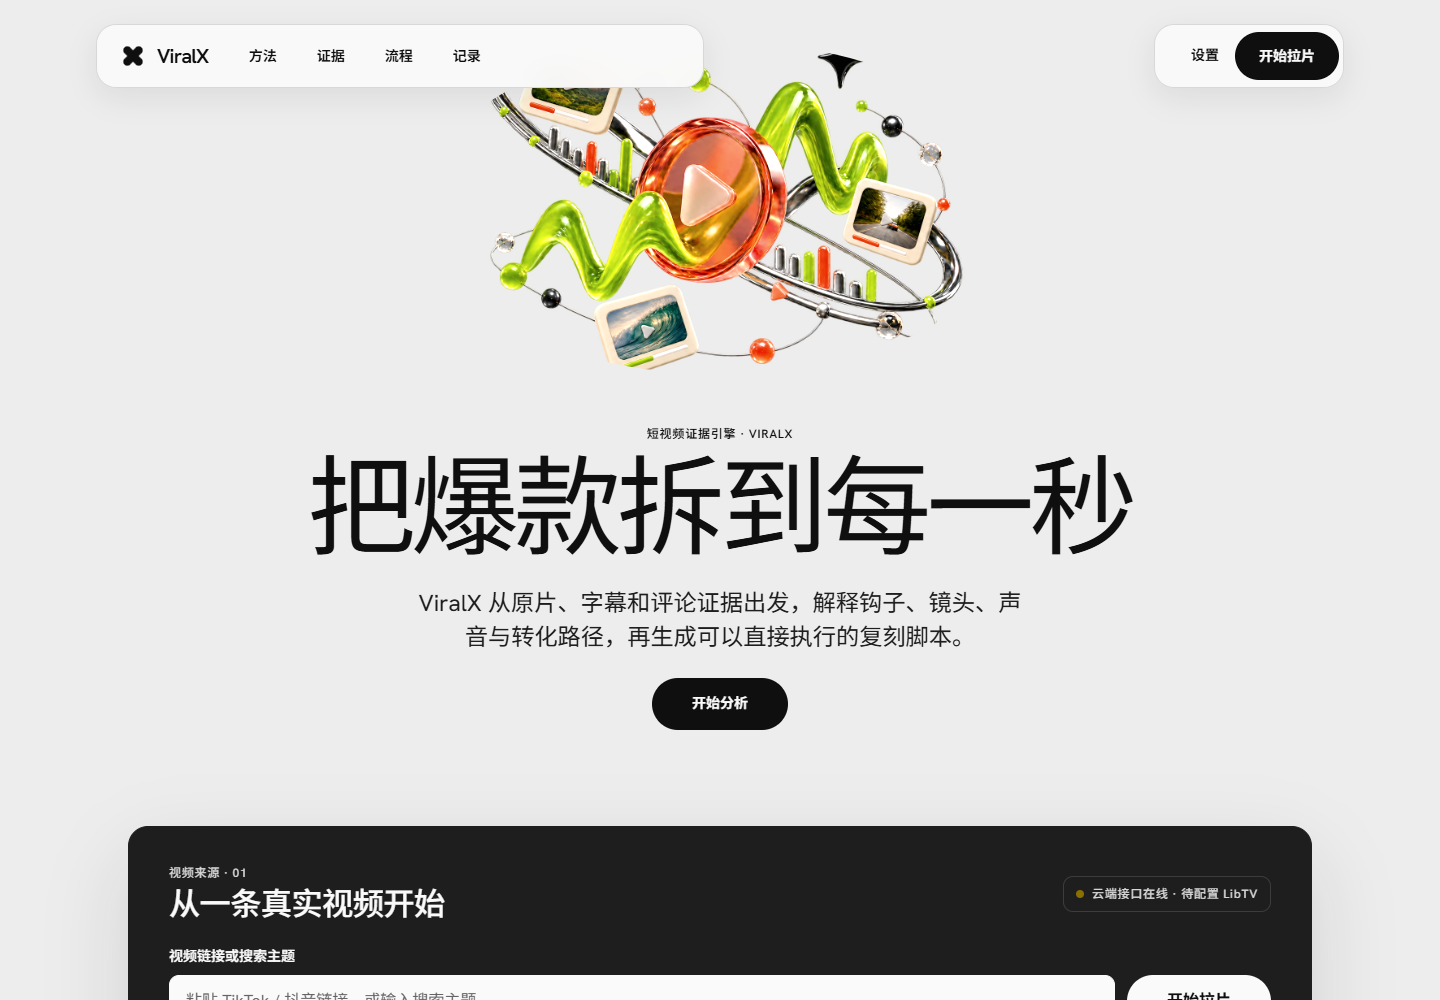
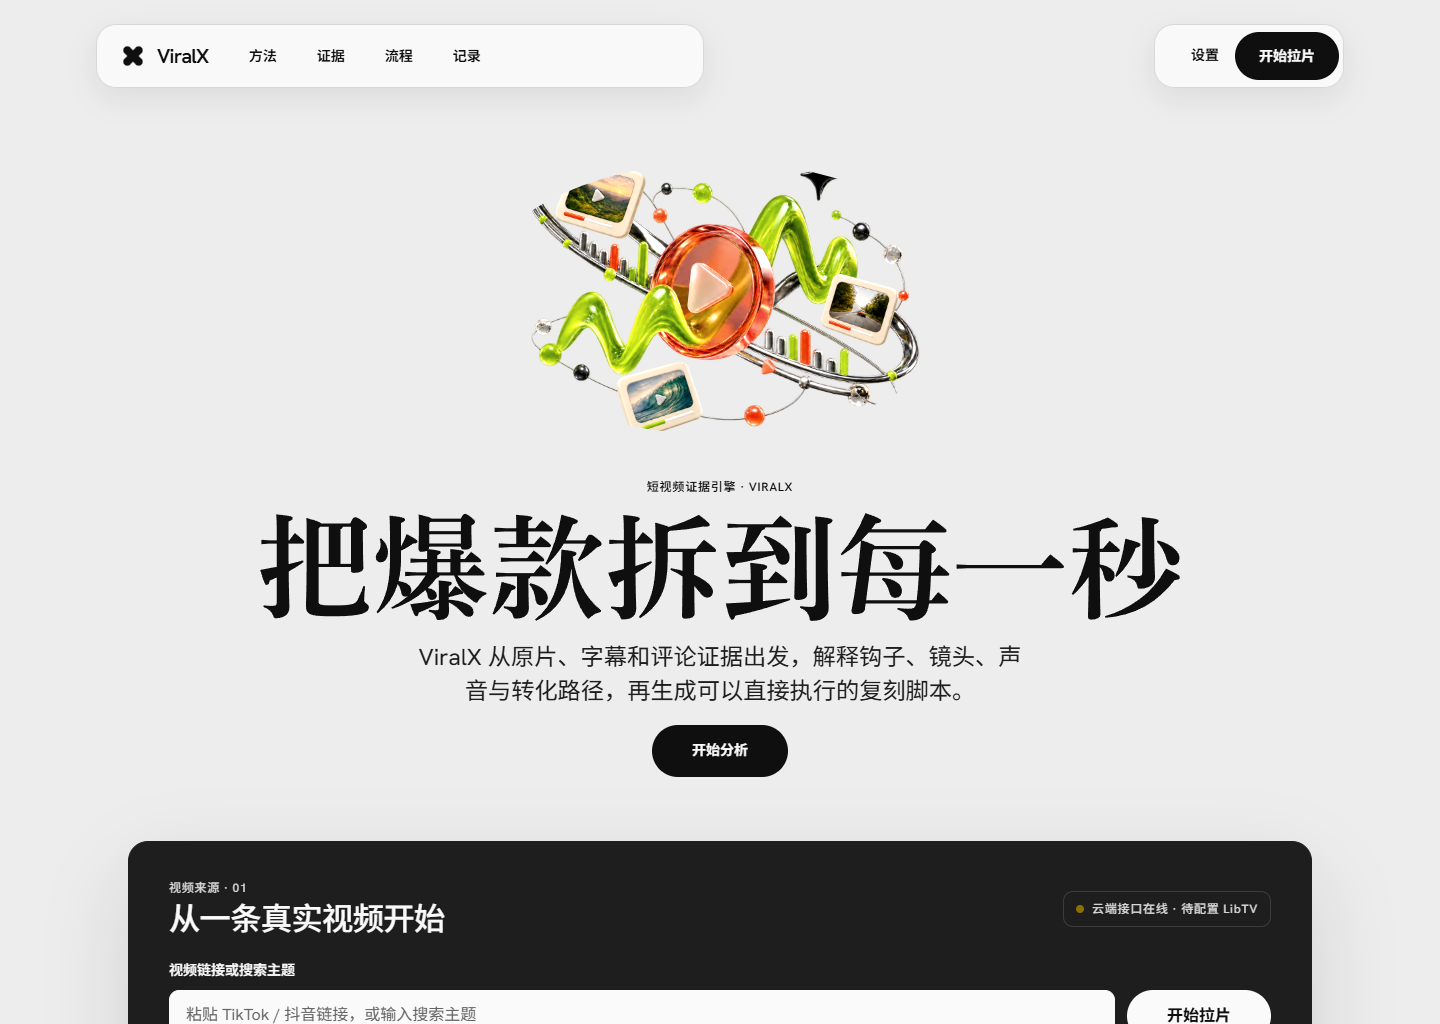
docs: highlight web rebuild and refresh screenshots

diff --git a/README.md b/README.md
@@ -37,6 +37,20 @@ ViralX 是一个完整的网页应用。它从真实的 TikTok / 抖音视频出
 - 本地开发通过 Flask 提供同一套浏览器页面和 API。
 - 产品只通过浏览器交付，不提供独立桌面应用。
 
+## 2026 Web 重构更新
+
+这次不是给旧客户端换皮，而是把 ViralX 重新做成了可以直接打开、配置和运行的网页产品：
+
+- **产品形态全面 Web 化**：首页承担真实分析工作台，设置页管理运行模式与凭据；桌面端和移动端共享同一条任务链。
+- **重新建立视觉系统**：采用 Butter 式的中性画布、双悬浮导航、单一主视觉和深色分析台；首页标题使用用户选定的 DNP 秀英明朝轮廓作品，并保留语义 H1，不在仓库中分发字体文件。
+- **线上功能不再是假演示**：EdgeOne Pages 搭配 Python Cloud Functions，支持同源健康检查、API23 搜索、单视频分析、流式进度和浏览器安全导出。
+- **搜索链路切换为 API23**：适配 API23 的请求参数、分页游标与多种响应结构；API23 只负责关键词发现，粘贴视频链接时会直接跳过搜索。
+- **TK Note + LibTV 成为默认主链**：TK Note 采集原片、字幕 / ASR、元数据与评论证据，LibTV 负责真实拉片和结构分析；MiniMax 只保留旧接口兼容能力。
+- **新增 Codex Agent 调用入口**：仓库自带可安装的 ViralX Skill，另一台电脑上的 Codex 可以通过 GitHub 链接直接安装并调用线上 API。
+- **明确云端与本地边界**：网页端凭据仅保存在当前标签页；本地 Flask 继续提供持久缓存、目录访问、浏览器 Cookie、代理与 Obsidian 文件写入。
+
+下面的依赖表、调用方式、页面说明和部署章节均以这一版 Web 架构为准。
+
 ## 现在到底需要哪些 API
 
 默认主链是 **TK Note 采集 + LibTV 拉片**，MiniMax 不参与网页的默认分析流程。
